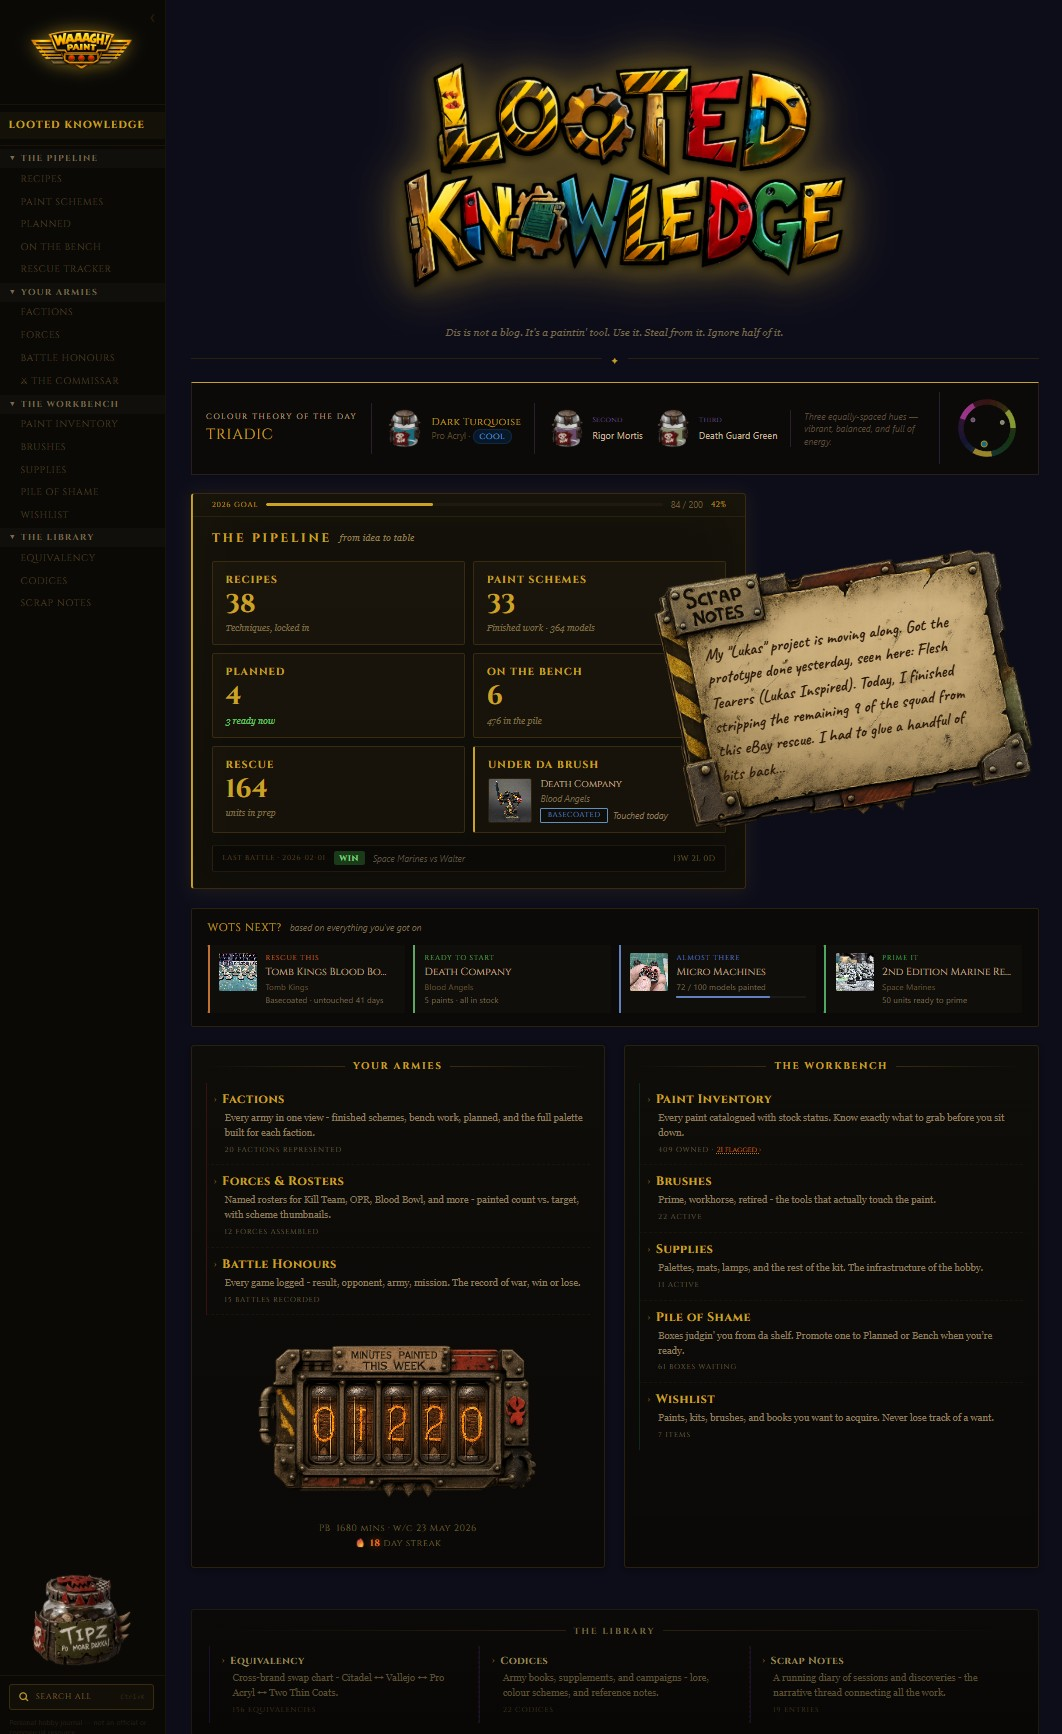
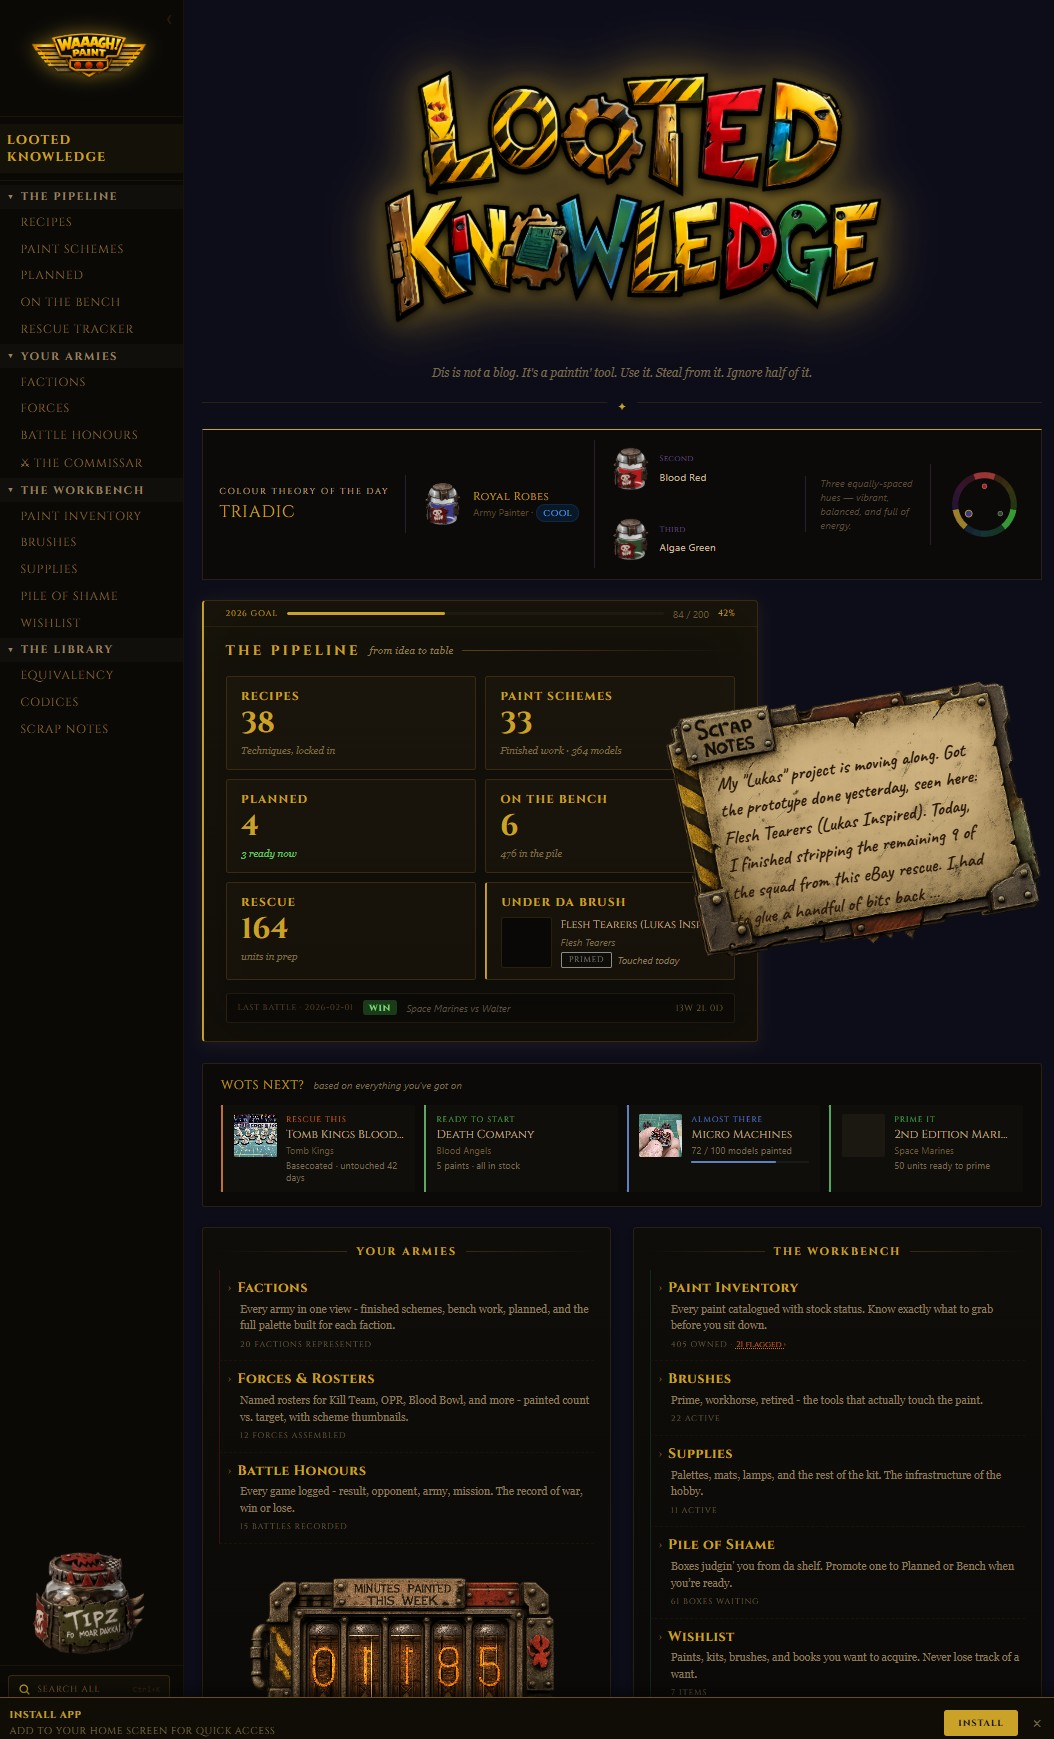
menu brightened. option to save colour theory of the day to scrap notes. biased to opaques

diff --git a/js/index.js b/js/index.js
@@ -7,6 +7,8 @@
     const _paintByKey       = new Map(PAINTS.map(p => [paintKey(p), p]));
     const _ACHROMATIC_CATS  = new Set(['White','Grey','Black','Metallic','Wash','Shade','Contrast','Ink','Texture','Primer','Pigment','Medium','Effect','Fluid','Utility','Special','Transparent','Fluorescent']);
     const _CAT_HUE          = {Red:0,Orange:25,Yellow:55,Green:120,Blue:220,Purple:270,Pink:320,Brown:30};
+    const _DCT_PREF_BRANDS  = new Set(['Pro Acryl','Citadel','Vallejo','Two Thin Coats']);
+    const _DCT_PREF_LAYERS  = new Set(['Base','Layer','Metallic','Model Color','X-Opaque']);
 
     // Upgrade legacy 2-part stored keys to 3-part where unambiguous
     const _legacyUpgrade = new Map();
@@ -1917,13 +1919,12 @@
 
           function renderBody(raw) {
             if (!raw) return '';
-            const TOKEN = /@\[(\w+):([^\]|]+)\|([^\]]+)\]/g;
-            let result = '',
-              last = 0,
-              m;
+            const TOKEN = /\[swatch:(#[0-9a-fA-F]{6})\]|@\[(\w+):([^\]|]+)\|([^\]]+)\]/g;
+            let result = '', last = 0, m;
             while ((m = TOKEN.exec(raw)) !== null) {
               result += esc(raw.slice(last, m.index));
-              result += mentionBadge(m[1], m[2], decodeHtml(m[3]));
+              if (m[1]) { result += `<span class="jn-swatch" style="background:${m[1]}"></span>`; }
+              else { result += mentionBadge(m[2], m[3], decodeHtml(m[4])); }
               last = m.index + m[0].length;
             }
             result += esc(raw.slice(last));
@@ -4364,6 +4365,8 @@
         if (!dctEl || typeof PAINTS === 'undefined') return;
         const chromatic = PAINTS.filter(p => { if (!p.hex || !/^#[0-9a-f]{6}$/i.test(p.hex)) return false; const [,s] = hexToHsl(p.hex); return s >= 8 && !_ACHROMATIC_CATS.has(p.color); });
         if (!chromatic.length) return;
+        const chromaticPref = chromatic.filter(p => _DCT_PREF_BRANDS.has(p.brand) && _DCT_PREF_LAYERS.has(p.layer));
+        const dctPool = chromaticPref.length >= 8 ? chromaticPref : chromatic;
         const dateStr = new Date().toDateString();
         let seed = 0;
         for (const c of dateStr) seed = ((seed << 5) - seed) + c.charCodeAt(0) | 0;
@@ -4371,7 +4374,7 @@
         const hTypes = ['complementary','triadic','split','analogous'];
         const hLabels = {complementary:'Complementary',triadic:'Triadic',split:'Split-Complementary',analogous:'Analogous'};
         const hDescs = {complementary:'Maximum contrast — opposite on the wheel. The accent colour that makes the primary pop.',triadic:'Three equally-spaced hues — vibrant, balanced, and full of energy.',split:'Two near-complements flanking the opposite — softer tension than pure complementary.',analogous:'Adjacent hues — harmonious, naturalistic, and satisfying to look at.'};
-        const paint = chromatic[seed % chromatic.length];
+        const paint = dctPool[seed % dctPool.length];
         const hType = hTypes[(seed >> 6) % hTypes.length];
         const hue = getHue(paint);
         if (hue === null) return;
@@ -4379,7 +4382,7 @@
         const temp = paintTemperature(hue);
         const role = paintRole(ph, ps, pl);
         const positions = harmonyPositions(hue, hType);
-        const picks = positions.map(pos => { const matches = paintsNearHue(pos.hue, 30, paintKey(paint)); const owned = matches.filter(m => paintOwned.has(paintKey(m))); return {pos, paint: owned[0] || matches[0] || null}; });
+        const picks = positions.map(pos => { const matches = paintsNearHue(pos.hue, 30, paintKey(paint)); const owned = matches.filter(m => paintOwned.has(paintKey(m))); const ownedPref = owned.filter(m => _DCT_PREF_BRANDS.has(m.brand) && _DCT_PREF_LAYERS.has(m.layer)); return {pos, paint: ownedPref[0] || owned[0] || matches[0] || null}; });
         if (!picks.some(({paint: mp}) => mp !== null)) return;
         function buildDCTWheelSvg() {
           const CX=120,CY=120,R1=78,R2=96,SEGS=24,DEG=15,ARC=20;
@@ -4396,6 +4399,17 @@
         const picksHtml = picks.map(({pos,paint:mp}) => { if (!mp) return ''; const fill=mp.hex||`hsl(${getHue(mp)||0},60%,45%)`; const own=paintOwned.has(paintKey(mp)); return `<div class="dct-strip-match"><div class="dct-pot-wrap${own?'':' dct-pot-muted'}" title="${esc(mp.name)} (${esc(mp.brand)})${own?'':' · not owned'}"><div class="dct-pot-color" style="background:${fill}"></div><img src="img/paint_pot.png" class="dct-pot-img" alt="${esc(mp.name)}"></div><div><span class="dct-match-role">${pos.label}</span><span class="dct-match-name">${esc(mp.name)}</span></div></div>`; }).join('');
         const potHtml = `<div class="dct-pot-wrap"><div class="dct-pot-color" style="background:${paint.hex}"></div><img src="img/paint_pot.png" class="dct-pot-img" alt="${esc(paint.name)}"></div>`;
         dctEl.innerHTML = `<div class="dct-strip"><div class="dct-strip-label"><div class="dct-eyebrow">Colour Theory of the Day</div><div class="dct-type-label">${hLabels[hType]}</div></div><div class="dct-strip-primary">${potHtml}<div><div class="dct-primary-name">${esc(paint.name)}</div><div class="dct-primary-meta">${esc(paint.brand)} · <span class="hp-temp hp-temp-${temp}">${temp}</span></div></div></div><div class="dct-strip-matches">${picksHtml}</div><div class="dct-strip-desc">${esc(hDescs[hType])}</div><div class="dct-strip-wheel">${buildDCTWheelSvg()}</div></div>`;
+        const _dctLines = [`Colour Theory: ${hLabels[hType]}: ${paint.name}`, `Primary: ${paint.name} - ${paint.brand}${paint.hex ? ' ' + paint.hex : ''}`];
+        picks.forEach(({pos, paint: mp}) => { if (mp) _dctLines.push(`${pos.label}: ${mp.name} - ${mp.brand}${mp.hex ? ' ' + mp.hex : ''}`); });
+        const _dctText = _dctLines.join('\n');
+        const _swatches = [paint, ...picks.map(({paint: mp}) => mp).filter(Boolean)].filter(p => p && p.hex).map(p => `[swatch:${p.hex}]`).join(' ');
+        const _dctBody = (_swatches ? _swatches + '\n' : '') + _dctText;
+        const _dctAct = document.createElement('div');
+        _dctAct.className = 'dct-actions';
+        _dctAct.innerHTML = `<button class="dct-act-btn" id="dct-copy-btn">&#9113; Copy</button><button class="dct-act-btn" id="dct-save-btn"${typeof IS_ADMIN !== 'undefined' && !IS_ADMIN ? ' disabled title="Log in to admin first"' : ''}>&#10022; Save to Notes</button>`;
+        dctEl.appendChild(_dctAct);
+        document.getElementById('dct-copy-btn').addEventListener('click', () => { navigator.clipboard.writeText(_dctText).then(() => { const b = document.getElementById('dct-copy-btn'); const o = b.textContent; b.textContent = '✓ Copied'; setTimeout(() => b.textContent = o, 1800); }); });
+        document.getElementById('dct-save-btn').addEventListener('click', () => { const b = document.getElementById('dct-save-btn'); const fd = new FormData(); fd.append('action','save_dct_note'); fd.append('title',`Colour Theory: ${hLabels[hType]}: ${paint.name}`); fd.append('body',_dctBody); fetch('',{method:'POST',body:fd}).then(r=>r.json()).then(d => { if (d.ok) { const o = b.textContent; b.textContent = '✓ Saved'; setTimeout(() => b.textContent = o, 1800); } }); });
         dctEl.style.display = '';
       })();
 

diff --git a/styles.css b/styles.css
@@ -3281,7 +3281,7 @@
     .wtn-card-prepped .wtn-type { color: #50a860; }
     /* Daily Colour Theory card — horizontal strip */
     .dct-panel { background: #0b0a08; border: 1px solid #2a1e18; border-top: 2px solid var(--gold); padding: 12px 18px; margin: 0 0 22px; }
-    .dct-strip { display: flex; align-items: center; gap: 0; flex-wrap: wrap; min-height: 64px; }
+    .dct-strip { display: flex; align-items: center; gap: 0; flex-wrap: nowrap; min-height: 64px; }
     .dct-strip-label { flex-shrink: 0; padding-right: 18px; min-width: 160px; }
     .dct-eyebrow { font-family: var(--font-heading); font-size: .6rem; letter-spacing: .2em; color: #9a7abа; text-transform: uppercase; margin-bottom: 4px; }
     .dct-type-label { font-family: var(--font-heading); font-size: 1.15rem; color: #c9a227; letter-spacing: .06em; text-transform: uppercase; }
@@ -3299,6 +3299,10 @@
     .dct-strip-desc { font-size: .7rem; color: #5a4a38; font-style: italic; border-left: 1px solid #2a1e30; padding: 0 16px; flex: 1 1 160px; line-height: 1.4; }
     .dct-strip-wheel { flex-shrink: 0; border-left: 1px solid #2a1e30; padding-left: 14px; margin-left: auto; }
     .dct-strip-wheel svg { width: 90px; height: 90px; display: block; }
+    .dct-actions { display: flex; gap: 8px; padding: 8px 18px 4px; border-top: 1px solid #1a1408; }
+    .dct-act-btn { background: none; border: 1px solid #2a1e08; color: #6a5828; font-family: var(--font-heading); font-size: .6rem; letter-spacing: .12em; text-transform: uppercase; padding: 3px 10px; border-radius: 2px; cursor: pointer; transition: color .12s, border-color .12s; }
+    .dct-act-btn:hover { color: #c9a227; border-color: #5a4010; }
+    .dct-act-btn:disabled { opacity: .3; cursor: not-allowed; }
     @media (max-width: 700px) {
       .dct-strip { flex-wrap: wrap; gap: 0; row-gap: 10px; }
       .dct-strip-label { flex: 0 0 auto; padding-right: 12px; min-width: 0; border-left: none; padding-left: 0; }
@@ -5986,6 +5990,7 @@
     .jn-mention-recipe { background:#2e1a4a; color:#b090e0; border:1px solid #4a2a6a; }
     .jn-mention-wd     { background:#3a2a08; color:#e8c040; border:1px solid #5a4010; }
     .jn-mention-bench  { background:#1a3a28; color:#80d0a0; border:1px solid #2a5a38; }
+    .jn-swatch { display: inline-block; width: 18px; height: 18px; border-radius: 50%; vertical-align: middle; border: 1px solid rgba(255,255,255,.18); margin-right: 4px; }
 
     #jn-empty {
       padding: 32px 16px;
@@ -6146,11 +6151,11 @@
   .sidebar-home a {
     display: block;
     font-family: var(--font-heading);
-    font-size: .8rem;
+    font-size: .88rem;
     font-weight: 700;
     letter-spacing: .1em;
     text-transform: uppercase;
-    color: #7a6030;
+    color: #b89050;
     text-decoration: none;
     padding: 8px 14px;
     transition: color .15s;
@@ -6177,11 +6182,11 @@
     border: none;
     cursor: pointer;
     font-family: var(--font-heading);
-    font-size: .68rem;
+    font-size: .76rem;
     font-weight: 700;
     letter-spacing: .14em;
     text-transform: uppercase;
-    color: #7a6a4a;
+    color: #9a8060;
     transition: color .15s;
   }
 
@@ -6212,17 +6217,17 @@
   .sg-item a {
     display: block;
     font-family: var(--font-heading);
-    font-size: .74rem;
+    font-size: .82rem;
     letter-spacing: .07em;
     text-transform: uppercase;
-    color: #5a4828;
+    color: #8a7040;
     text-decoration: none;
     padding: 6px 14px 6px 28px;
     transition: color .15s, background .15s;
   }
 
   .sg-item a:hover {
-    color: #8a7040;
+    color: #b89050;
     background: rgba(201,162,39,.04);
   }
 

diff --git a/admin.css b/admin.css
@@ -1135,20 +1135,20 @@
 
     .as-group-label {
       font-family: var(--font-heading);
-      font-size: 10px;
+      font-size: 11px;
       letter-spacing: .22em;
       text-transform: uppercase;
-      color: #2a1e0a;
+      color: #7a6030;
       padding: 10px 14px 4px;
     }
 
     .as-link {
       display: block;
       font-family: var(--font-heading);
-      font-size: 13px;
+      font-size: 14px;
       letter-spacing: .07em;
       text-transform: uppercase;
-      color: #6a5a30;
+      color: #a88a40;
       text-decoration: none;
       padding: 10px 14px;
       border-left: 3px solid transparent;

diff --git a/index.php b/index.php
@@ -1,4 +1,5 @@
 <?php
+session_start();
 require_once __DIR__ . '/config.php';
 $paintsJsonFile = __DIR__ . '/data/paints.json';
 if (file_exists($paintsJsonFile)) {
@@ -521,6 +522,29 @@ unset($_ciOwned,$_stSc,$_bno,$noSc,$noRs,$_noM,$_nc,$_nc2,$_dS,$_pno,$_pnM,$_nc3
 header('X-Frame-Options: DENY');
 header('X-Content-Type-Options: nosniff');
 
+if (($_POST['action'] ?? '') === 'save_dct_note') {
+  header('Content-Type: application/json');
+  if (empty($_SESSION['admin'])) { echo json_encode(['ok' => false]); exit; }
+  $body  = trim($_POST['body']  ?? '');
+  $title = trim($_POST['title'] ?? '');
+  if ($body !== '') {
+    $file = __DIR__ . '/data/journal.json';
+    $all  = file_exists($file) ? (json_decode(file_get_contents($file), true) ?? []) : [];
+    $entry = ['id' => (string)time(), 'date' => date('Y-m-d'), 'body' => $body];
+    if ($title) $entry['title'] = $title;
+    $all[] = $entry;
+    usort($all, function($a, $b) {
+      $d = strcmp($b['date'] ?? '', $a['date'] ?? '');
+      return $d !== 0 ? $d : strcmp($b['id'] ?? '', $a['id'] ?? '');
+    });
+    file_put_contents($file, json_encode($all, JSON_PRETTY_PRINT | JSON_UNESCAPED_UNICODE | JSON_UNESCAPED_SLASHES), LOCK_EX);
+    echo json_encode(['ok' => true]);
+  } else {
+    echo json_encode(['ok' => false]);
+  }
+  exit;
+}
+
 if (($_POST['action'] ?? '') === 'track_tab') {
   header('Content-Type: application/json');
   $tab     = trim($_POST['tab'] ?? '');
@@ -597,7 +621,7 @@ if (($_POST['action'] ?? '') === 'track_tab') {
   <meta name="twitter:image" content="<?= htmlspecialchars(SITE_URL) ?>img/logo_sm.png">
   <link rel="preconnect" href="https://fonts.googleapis.com">
   <link href="https://fonts.googleapis.com/css2?family=Cinzel:wght@400;700;900&family=Caveat:wght@700&display=swap" rel="stylesheet">
-  <link rel="stylesheet" href="styles.css?v=116">
+  <link rel="stylesheet" href="styles.css?v=121">
   <script type="application/ld+json">
     {
       "@context": "https://schema.org",
@@ -922,7 +946,8 @@ if (($_POST['action'] ?? '') === 'track_tab') {
       $jnSnipFull     = '';
       $showNotesPanel = false;
       if ($hasJournal && !empty($journalData)) {
-        $_jnRaw     = preg_replace('/@\[(?:\w+):[^\]|]+\|([^\]]+)\]/', '$1', $journalData[0]['body'] ?? '');
+        $_jnRaw     = preg_replace('/\[swatch:#[0-9a-fA-F]{6}\]\s*/', '', $journalData[0]['body'] ?? '');
+        $_jnRaw     = preg_replace('/@\[(?:\w+):[^\]|]+\|([^\]]+)\]/', '$1', $_jnRaw);
         $jnSnipFull = function_exists('mb_strimwidth') ? mb_strimwidth($_jnRaw, 0, 230, '…') : (strlen($_jnRaw) > 230 ? substr($_jnRaw, 0, 230) . '…' : $_jnRaw);
         $showNotesPanel = !empty($jnSnipFull);
         unset($_jnRaw);
@@ -1961,6 +1986,7 @@ if (($_POST['action'] ?? '') === 'track_tab') {
   </div>
 
   <script>
+    const IS_ADMIN = <?= json_encode(!empty($_SESSION['admin'])) ?>;
     const PAINTS = <?= $paintsJson ?>;
     const PLANNED = <?= $plannedJson ?>;
     const CONVERSIONS_DATA = <?= $conversionsDataJson ?>;
@@ -1977,7 +2003,7 @@ if (($_POST['action'] ?? '') === 'track_tab') {
     const RESCUE_DATA = <?= $hasRescues ? json_encode($rescuesData, JSON_HEX_TAG | JSON_HEX_APOS | JSON_HEX_QUOT | JSON_HEX_AMP | JSON_UNESCAPED_UNICODE) : 'null' ?>;
     const MODELS = <?= $modelsJson ?>;
   </script>
-  <script src="js/index.js?v=22"></script>
+  <script src="js/index.js?v=26"></script>
 
   <?php if (!defined('SHOW_WC_NEWS') || SHOW_WC_NEWS): ?>
   <script>

diff --git a/admin.php b/admin.php
@@ -2514,7 +2514,7 @@ if ($authed && isset($_GET['edit_force'])) {
   <link rel="icon" type="image/x-icon" href="favicon.ico">
   <link rel="preconnect" href="https://fonts.googleapis.com">
   <link href="https://fonts.googleapis.com/css2?family=Cinzel:wght@400;700;900&display=swap" rel="stylesheet">
-  <link rel="stylesheet" href="admin.css?v=12">
+  <link rel="stylesheet" href="admin.css?v=13">
 </head>
 
 <body<?php if ($authed && $editModel): ?> data-open-section="section-gallery" <?php elseif ($authed && $editForce): ?> data-open-section="section-forces" <?php endif; ?>>